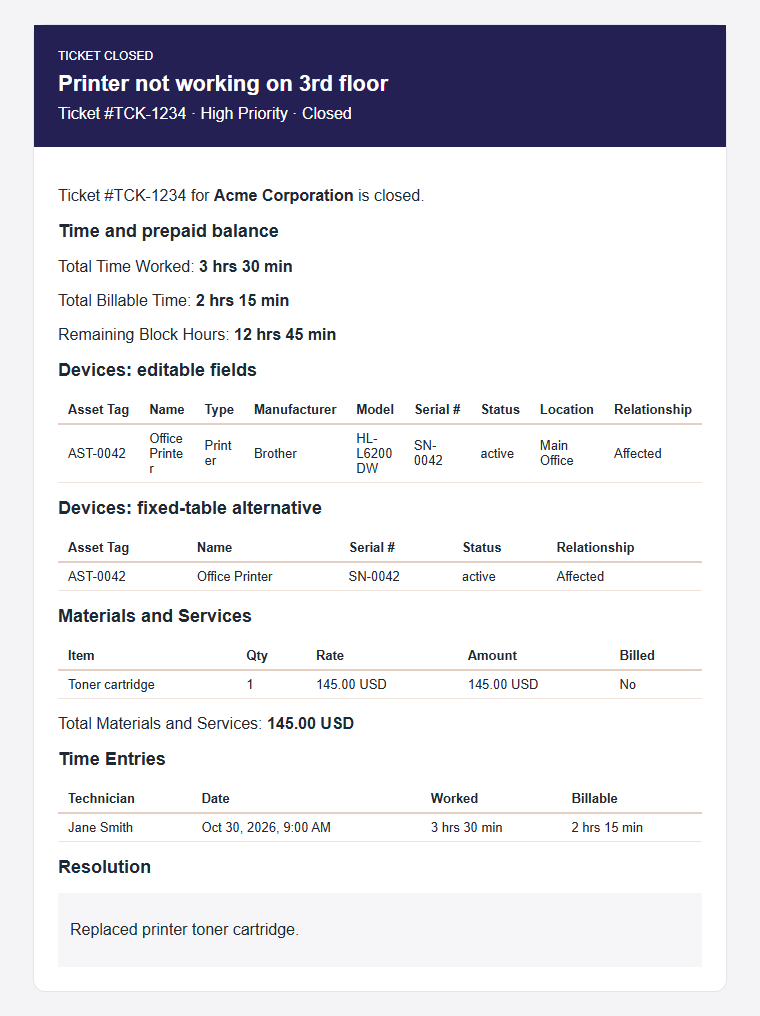
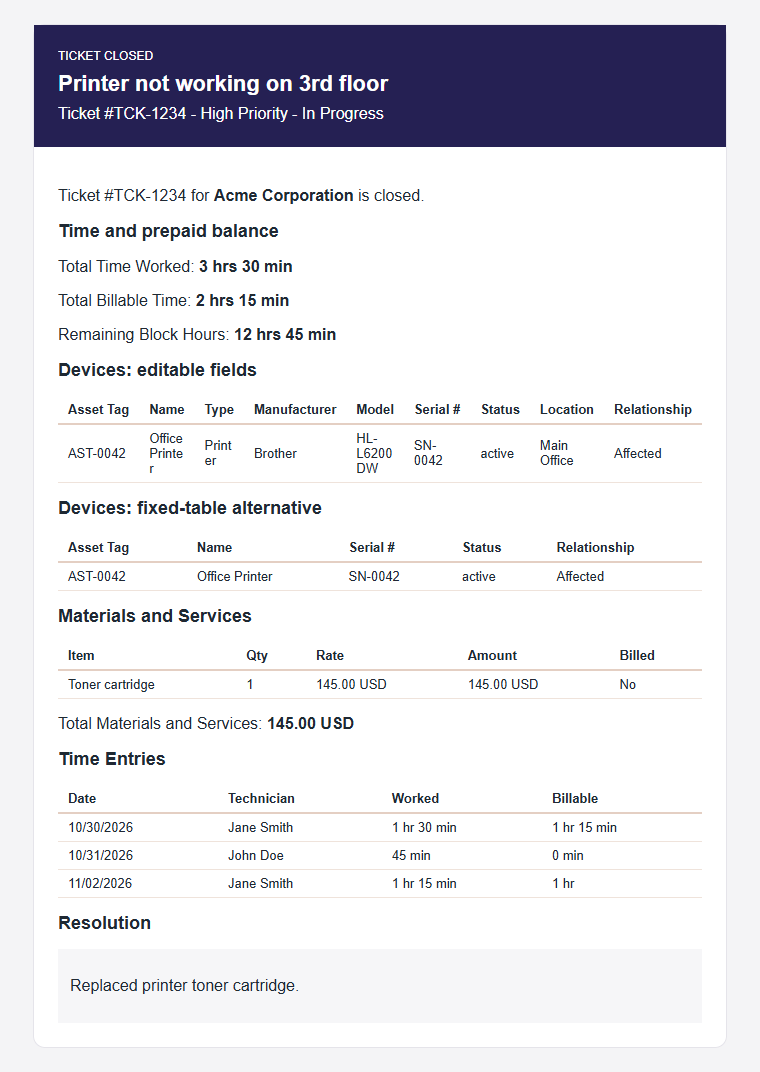
docs(email): refresh ticket detail examples with time entries table

diff --git a/docs/email/editing-ticket-email-html.md b/docs/email/editing-ticket-email-html.md
@@ -85,7 +85,8 @@ transform a delivered message.
 | `ticket.timeHtml` | Both | Fixed HTML table in date order: date, technician, worked time, billable time. |
 | `ticket.timeEntries` | Both | Editable list of time entries; use `{{#each ticket.timeEntries}}` with `date`, `technician`, `worked`, `billable`. |
 | `ticket.totalTimeWorked` | Both | Total time recorded as worked on this ticket. |
-| `ticket.totalTimeBillable` | Both | Total recorded billable time, including time not yet invoiced. || `ticket.remainingBlockHours` | Both | Client's available prepaid block hours when the email is generated. |
+| `ticket.totalTimeBillable` | Both | Total recorded billable time, including time not yet invoiced. |
+| `ticket.remainingBlockHours` | Both | Client's available prepaid block hours when the email is generated. |
 
 Remaining block hours include usage already deducted before invoicing. They
 are a client balance, not just this ticket's usage, and may differ between the
